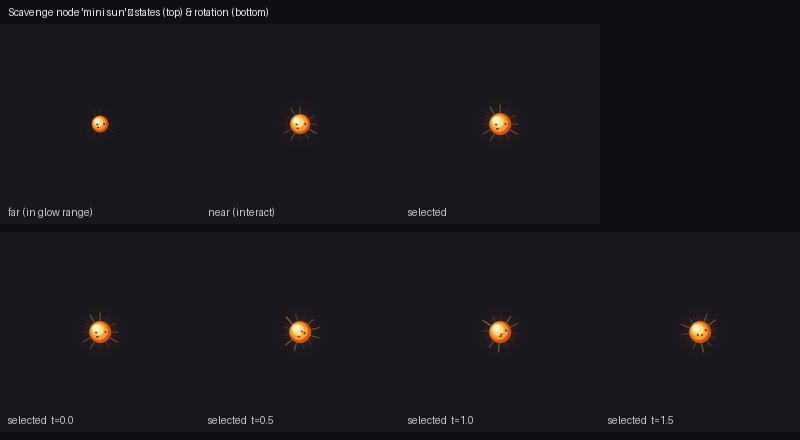
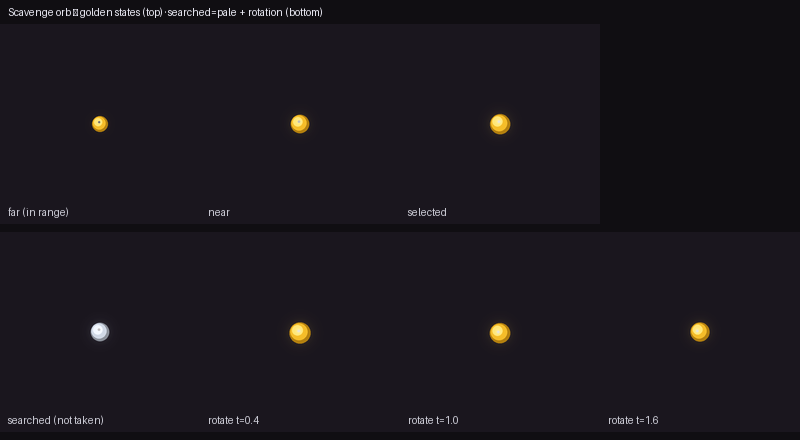
Scavenge node: clean shiny orb (not a literal sun)
Owner clarified the "mini sun" was figurative — dropped the corona flares and
sunspots. The scavenge marker is now a small, appealing GLOWING SPHERE: shaded
rim->body->bright (lit upper-left = fake 3D volume), a soft specular glint that
slowly orbits the surface (gentle rotation + shine), a soft glow halo, and a
gentle bob+pulse for weight. Still carries the real PointLight2D so it casts a
pool into the room.

GOLDEN while it holds an untaken item you haven't searched; once SEARCHED-but-
not-emptied it turns pale WHITE/colourless (GOLD/PALE palettes; the light colour
swaps too) — drained but still glowing and distinct so a looked-in node reads
differently. Proximity still drives size/brightness; dark out of scavenge mode
or range.

scavenge_node_test now also locks the gold->pale swap. All 33 suites pass.
Preview refreshed (docs/art_reference/scavenge_node_preview.png).

Claude-Session: https://claude.ai/code/session_018G5NCP3m9WbvqqpohXSrqQ

diff --git a/CLAUDE.md b/CLAUDE.md
@@ -710,18 +710,21 @@ means no rendering — UI layout and art still need an in-editor look.
   `assets/audio/ambience/`, CC0). Added on the passive balcony-pan backdrop too (light only,
   no rain/storm). Covered by `apartment_window_test`. Purely visual/audio otherwise — the LOOK
   (window brightness, rain read, flash) needs an in-editor check.
-- Scavenge nodes = a glowing "mini sun" (`interactable.gd`, replaced the old flat
-  yellow/white `draw_circle`): a procedurally-drawn, ROTATING orb with a shaded sphere body
-  (rim→mid→hot→offset white core = fake 3D lit from upper-left), a rotating corona of flares,
-  drifting scattered sunspots (spin cue, deliberately NON-symmetric so it never reads as a
-  face), a soft glow halo, and a gentle pulse — PLUS a REAL PointLight2D child so the orb
-  actually casts a warm pool into the room (weight; plays with the dynamic lighting + helps
-  night scavenging). Size/brightness/light-energy scale with proximity: dim+small at the far
-  edge of the glow radius → bright at interact range → hottest when selected; the light is 0
-  (dark) whenever not in scavenge mode or out of range, so it never lights a room you're not
-  searching. Animated via `_process` advancing `_t`; visual can't be verified headless (a PIL
-  approximation is `docs/art_reference/scavenge_node_preview.png`), but the light/weight wiring
-  is locked by `scavenge_node_test`. Same script drives maintenance-room anchors too.
+- Scavenge nodes = a shiny glowing ORB (`interactable.gd`, replaced the old flat yellow/white
+  `draw_circle`; NOT a literal sun — owner corrected an over-figurative first pass with flares/
+  sunspots): a small appealing sphere with real volume (shaded rim→body→bright, lit upper-left
+  = fake 3D), a soft specular glint that slowly ORBITS the surface (reads as gentle rotation +
+  shine), a soft glow halo, and a gentle bob+pulse (weight) — PLUS a REAL PointLight2D child so
+  it casts a pool into the room (plays with the dynamic lighting + helps night scavenging).
+  **GOLDEN** while it still holds an untaken item you HAVEN'T searched; once **SEARCHED-but-not-
+  emptied** (item left behind) it turns **pale WHITE/colourless** (`GOLD`/`PALE` palettes; the
+  light colour swaps too) — drained of gold but still glowing + distinct so the player knows
+  it's been looked in. Size/brightness/light-energy scale with proximity (dim+small at the glow
+  edge → bright at interact range → hottest when selected); light is 0 out of scavenge mode or
+  range so it never lights a room you're not searching. Animated via `_process` advancing `_t`;
+  the LOOK can't be verified headless (PIL approximation: `docs/art_reference/scavenge_node_preview.png`),
+  but the light/weight + gold→pale wiring is locked by `scavenge_node_test`. Same script drives
+  maintenance-room anchors too.
 - Enemy variety / escalation table (THREE_RUN_ARC step 6, v1): the infestation
   **migrates upward** across the arc, and there are now **five corridor types**. The mix
   is data-driven per (floor band × run) in `world_state.gd`: `HEAVY_CHANCE` (Big Zombie)
